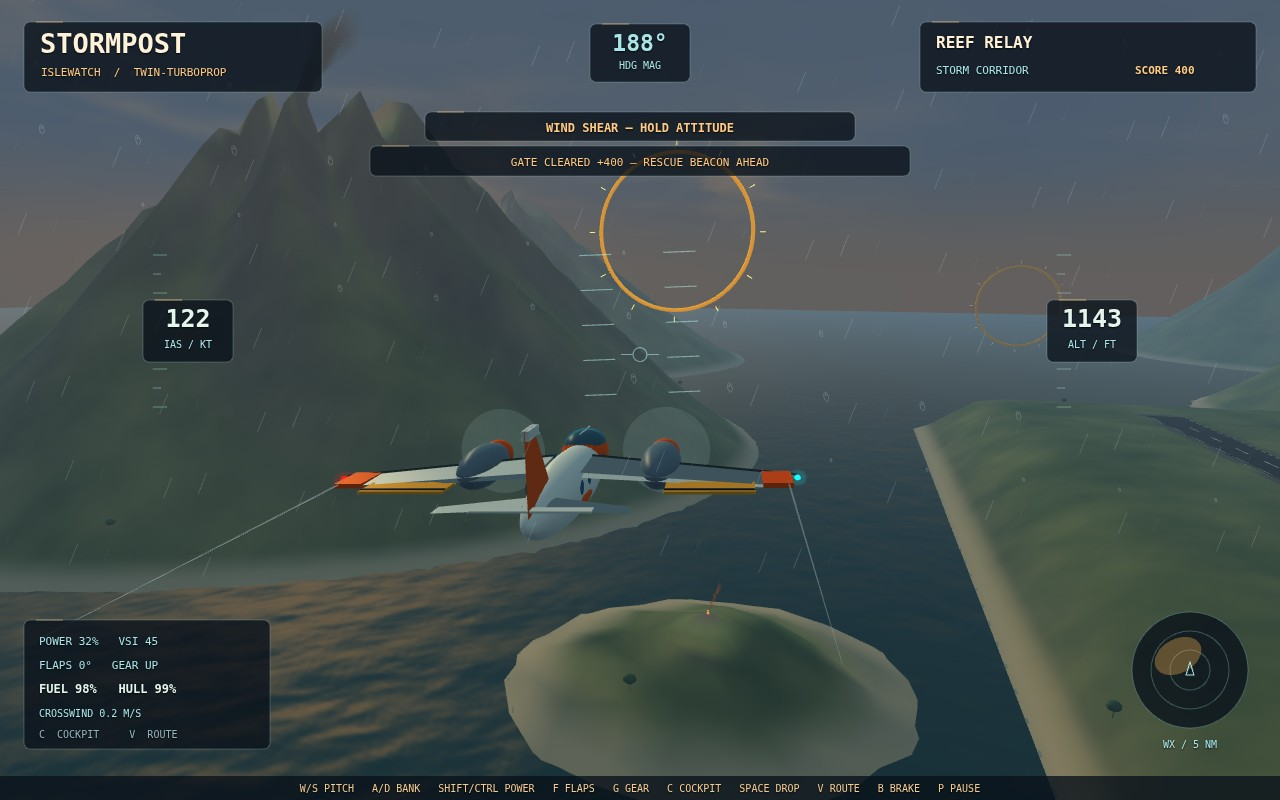
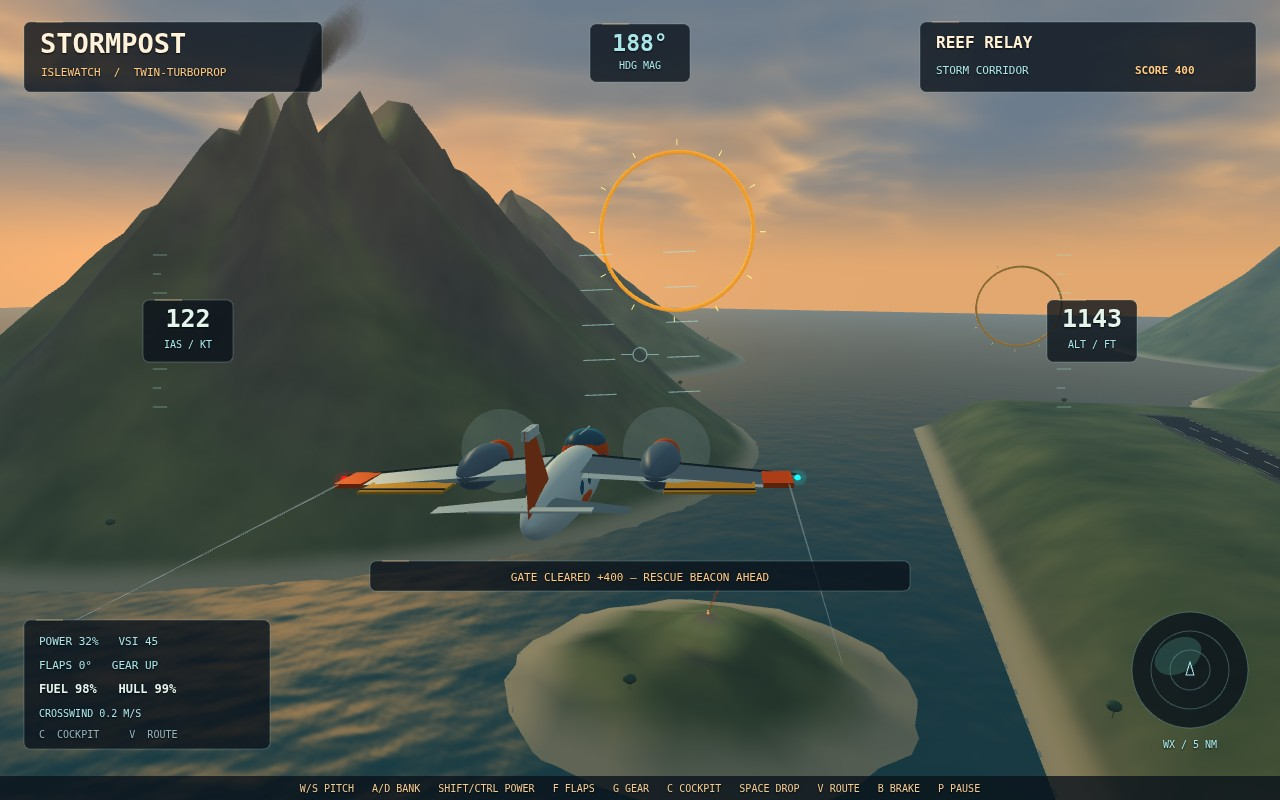
Release STORMPOST v4.2 approved flown visuals

diff --git a/game/src/missionDirector.js b/game/src/missionDirector.js
@@ -11,6 +11,9 @@ export function createMissionDirector(engine){
   rod(ring,[Math.cos(a)*103,Math.sin(a)*103,0],[Math.cos(a)*110,Math.sin(a)*110,0],.65,[1,.81,.38],5);
  }
  const ground=terrainHeight(rescueZone.x,rescueZone.z);
+ // A coastal promontory remains visible through the storm-approach windshield.
+ const stormFlare={x:-525,z:-1550};
+ stormFlare.y=terrainHeight(stormFlare.x,stormFlare.z);
  box(beacon,[0,.8,0],[2,1.6,2],[.4,.17,.07]);
  rod(beacon,[0,0,0],[0,3,0],.27,[1,.22,.03],8,.08);
  ellipsoid(beacon,[0,3.2,0],[.48,.6,.48],[1,.72,.28],8,12);
@@ -57,15 +60,46 @@ export function createMissionDirector(engine){
   if(s.gear&&s.status==='flying'&&Math.abs(s.pos[0]-runway.x)<60&&s.pos[2]>runway.z1&&s.pos[2]<200){
    s.event='FINAL 18 • FLAPS 30 • GEAR DOWN';
   }
+ },drawRescueRibbon(ctx,s){
+  if(s.camera!=='cockpit'||!s.storm||s.status!=='flying')return;
+  // World-anchored, camera-facing smoke; deliberately unlit by storm fog.
+  // Draw beneath cockpit/HUD so terrain, dials and altitude stay authoritative.
+  ctx.save();
+  const W=ctx.canvas.width,H=ctx.canvas.height;
+  ctx.beginPath();ctx.rect(0,H*.465,W,H*.235);ctx.clip();
+  for(let i=35;i>=0;i--){
+   const t=i/35,drift=t*t*86;
+   const position=[stormFlare.x-drift+Math.sin(t*9)*t*5,stormFlare.y+3.2+t*48,stormFlare.z-t*12];
+   const p=engine.project(position);
+   const edge=engine.project([position[0]+1,position[1],position[2]]);
+   if(!p.visible)continue;
+   const r=Math.max(3,Math.min(17,Math.hypot(edge.x-p.x,edge.y-p.y)*(2.5+t*11)));
+   const opacity=.39*Math.pow(1-t,.55),red=Math.round(255-t*81),warm=Math.round(99+t*53),blue=Math.round(29+t*108);
+   const puff=ctx.createRadialGradient(p.x,p.y,0,p.x,p.y,r);
+   puff.addColorStop(0,'rgba('+red+','+warm+','+blue+','+opacity+')');
+   puff.addColorStop(.42,'rgba('+red+','+warm+','+blue+','+opacity*.68+')');
+   puff.addColorStop(1,'rgba('+red+','+warm+','+blue+',0)');
+   ctx.fillStyle=puff;ctx.fillRect(p.x-r,p.y-r,r*2,r*2);
+  }
+  const core=engine.project([stormFlare.x,stormFlare.y+3.2,stormFlare.z]);
+  if(core.visible){
+   ctx.globalCompositeOperation='lighter';
+   const glow=ctx.createRadialGradient(core.x,core.y,0,core.x,core.y,13);
+   glow.addColorStop(0,'rgba(255,214,124,.98)');glow.addColorStop(.22,'rgba(255,70,12,.86)');glow.addColorStop(1,'rgba(255,55,0,0)');
+   ctx.fillStyle=glow;ctx.fillRect(core.x-13,core.y-13,26,26);
+  }
+  ctx.restore();
  },draw(s){
   for(let i=0;i<gates.length;i++)if(s.contract===2&&i>=(s.rings||0))engine.draw(g.ring,transform(gates[i]),{emission:i===(s.rings||0)?.65:.18});
   // Low coastal marker: a bright point source and a narrow wind-carried ribbon.
   // Suppress distant mission smoke after impact so it cannot pierce wreck smoke.
   if(s.status!=='crashed'){
-   engine.draw(g.beacon,transform([rescueZone.x,ground,rescueZone.z]),{emission:2.8});
-   for(let i=10;i>=0;i--){
-    const life=(i*.31+s.elapsed*.28)%3.5,r=.55+life*.38;
-    engine.draw(g.smoke,transform([rescueZone.x+life*3.2,ground+2+life*8,rescueZone.z+life*.6],[i,life,0],[r,r*1.65,r*.65]),{alpha:.19*(1-life/4),emission:.10,soft:true});
+   const rescueView=s.camera==='cockpit'&&s.storm;
+   const flareScale=1,flare=rescueView?stormFlare:{x:rescueZone.x,y:ground,z:rescueZone.z};
+   engine.draw(g.beacon,transform([flare.x,flare.y,flare.z],[0,0,0],[flareScale,flareScale,flareScale]),{emission:rescueView?5:2.8});
+   for(let i=rescueView?-1:10;i>=0;i--){
+    const life=(i*.31+s.elapsed*.28)%3.5,r=(.55+life*.38)*(rescueView?2.2:1);
+    engine.draw(g.smoke,transform([rescueZone.x+life*3.2,ground+2+life*(rescueView?15:8),rescueZone.z+life*.6],[i,life,0],[r,r*1.65,r*.65]),{alpha:(rescueView?.48:.19)*(1-life/4),emission:rescueView?.7:.10,soft:true});
    }
   }
   for(let p of supplies){

diff --git a/game/src/avionicsHud.js b/game/src/avionicsHud.js
@@ -46,10 +46,10 @@ export function drawAvionics(ctx,s,w,h){
   ctx.textAlign='center';text(ctx,'WX / 5 NM',rx,748,10);
  }
  ctx.textAlign='center';
- if(s.warning&&s.status==='flying'){
+ if(s.warning&&s.status==='flying'&&(s.storm||!s.warning.startsWith('WIND SHEAR'))){
   glass(ctx,425,112,430,29);text(ctx,s.warning,640,132,12,amber,'700');
  }
- if(s.event&&s.status==='flying'){const ey=s.camera==='cockpit'?515:165;glass(ctx,370,ey-19,540,30);text(ctx,s.event,640,ey+1,11,amber);}
+ if(s.event&&s.status==='flying'){const ey=s.camera==='cockpit'?515:(!s.storm&&s.contract===2&&s.rings===1?580:165);glass(ctx,370,ey-19,540,30);text(ctx,s.event,640,ey+1,11,amber);}
  if(s.status!=='flying'){
   const cx=s.status==='crashed'?334:640;glass(ctx,cx-310,635,620,119);
   const lost=s.status==='crashed';text(ctx,lost?'AIRFRAME LOST  /  HULL 0%':s.flare,cx,661,20,lost?'#ffba80':cyan,'700');

diff --git a/game/src/main.js b/game/src/main.js
@@ -38,7 +38,7 @@ function integrateFlight(){
   updateAerodynamics(state,pilotInput(),dt);
   resolveContact(state,dt);missions.update(state,dt);
  }
- state.storm=state.route==='STORM CORRIDOR'&&state.pos[2]<-420&&state.pos[0]<100&&state.status==='flying';
+ state.storm=state.route==='STORM CORRIDOR'&&state.pos[2]<-700&&state.pos[0]<100&&state.status==='flying';
  audio.update(state);
 }
 function advanceFlight(ticks=1){
@@ -56,6 +56,7 @@ function renderFlight(){
  if(state.camera==='cockpit')cockpit.draw(state);else drawAircraft(state,clock);
  impact.draw(state,clock);ctx.clearRect(0,0,w,h);
  if(state.storm)atmosphere.rain(ctx,w,h,clock);
+ missions.drawRescueRibbon(ctx,state);
  if(state.camera==='cockpit')drawCockpitInstruments(ctx,state,w,h);
  drawAvionics(ctx,state,w,h);
  document.getElementById('flight-status').textContent=state.event||state.warning||state.status;
